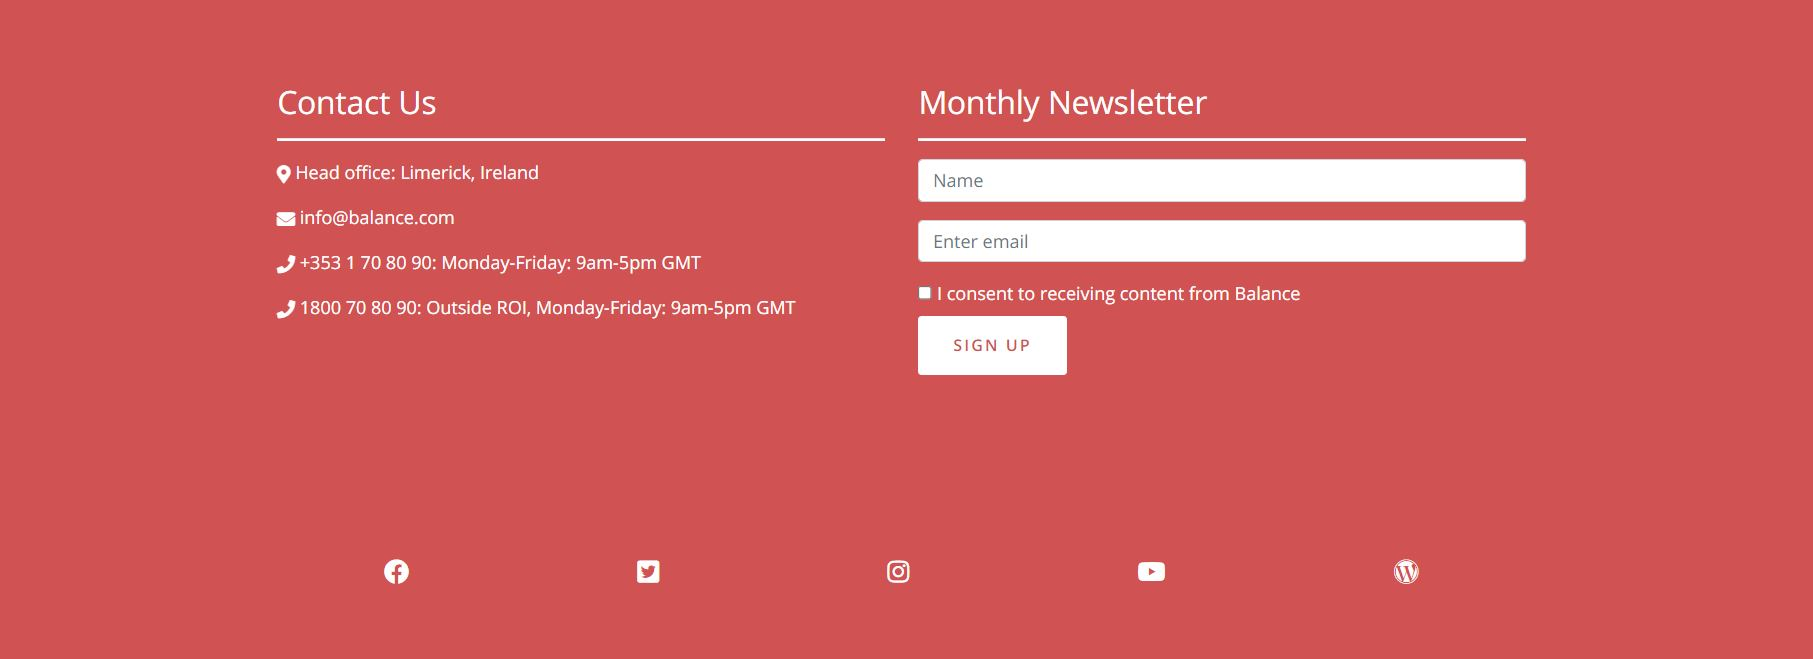
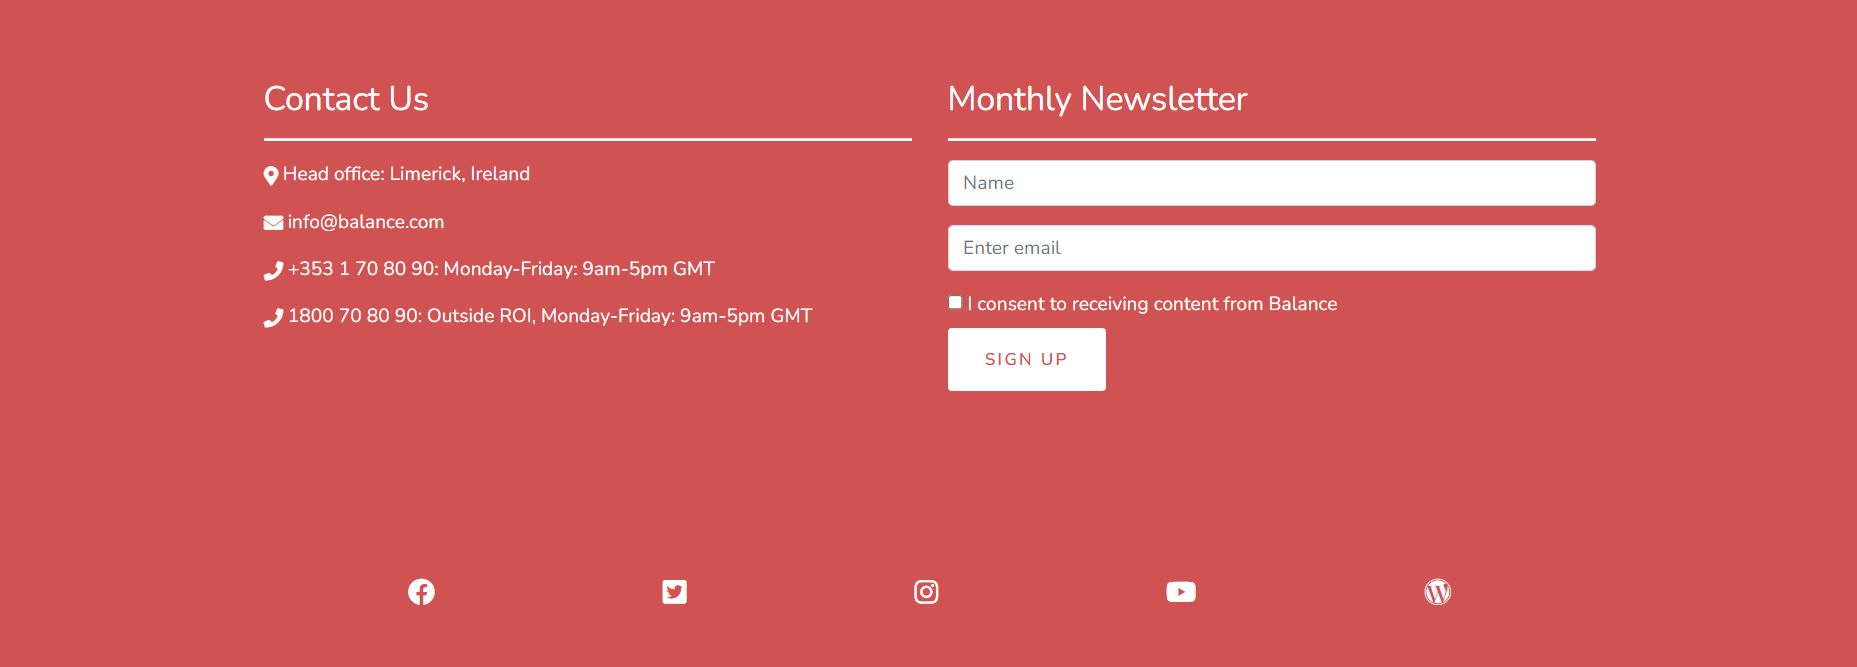
replaced featered imgs with imgs with updated font for README file, added to README.mddeleted commeted out code that was not needed along with other minor edits

diff --git a/log-in.html b/log-in.html
@@ -4,14 +4,13 @@
     <!-- Required meta tags -->
     <meta charset="utf-8">
     <meta name="viewport" content="width=device-width, initial-scale=1, shrink-to-fit=no">
-    <!-- Google fonts-->
-    <link
-        href="https://fonts.googleapis.com/css?family=Open+Sans:300italic,400italic,600italic,700italic,800italic,400,300,600,700,800"
-        rel="stylesheet" type="text/css" />
+    <meta name="description" content="Book Your Online Yoga Classes">
+    <meta name="viewport" content="width=device-width, initial-scale=1.0">
     <!-- Bootstrap -->
     <link rel="stylesheet" href="https://cdn.jsdelivr.net/npm/bootstrap@4.6.0/dist/css/bootstrap.min.css" integrity="sha384-B0vP5xmATw1+K9KRQjQERJvTumQW0nPEzvF6L/Z6nronJ3oUOFUFpCjEUQouq2+l" crossorigin="anonymous">
     <!-- Font Awesome icons (free version)-->
     <link rel="stylesheet" href="https://cdnjs.cloudflare.com/ajax/libs/font-awesome/5.15.3/css/all.min.css">
+    <!-- Hover.css -->
     <link rel="stylesheet" href="https://cdnjs.cloudflare.com/ajax/libs/hover.css/2.1.1/css/hover-min.css" type="text/css" />
     <!-- Style sheet -->
     <link rel="stylesheet" href="assets/css/style.css">
@@ -80,12 +79,12 @@
     <form class="form-group">
       <div>
         <label for="signup-email"><strong>Email address</strong></label>
-        <input type="email" class="form-control" class="text-input" placeholder="example@email.com" aria-label="email-address" required>
+        <input type="email" class="form-control text-input" placeholder="example@email.com" aria-label="email-address" required>
       </div>
 
       <div class="form-group">
         <label for="password"><strong>Password</strong></label>
-        <input type="password" class="form-control" class="input-password" placeholder="************" aria-label="password" required>
+        <input type="password" class="form-control input-password" placeholder="************" aria-label="password" required>
       </div>
       
       <div class="form-group form-check"> 
@@ -103,19 +102,22 @@
     <form>
       <div class="form-group">
         <label for="firstname"><strong>First Name</strong></label>
-        <input type="text" name="firstname" class="form-control" class="text-input" id="firstname" placeholder="Name" aria-label="name" required>
+        <input type="text" name="firstname form-control text-input" id="firstname" placeholder="First name" aria-label="name" required>
       </div>
-
+      <div class="form-group">
+        <label for="lastname"><strong>Last Name</strong></label>
+        <input type="text" name="lastname" class="form-control text-input" id="lastname" placeholder="Last name" aria-label="name" required>
+      </div>
       <div class="form-group">
         <label for="signup-email"><strong>Email address</strong></label>
-        <input type="text"  class="form-control" class="text-input" id="signup-email" placeholder="example@email.com" aria-label="email-address" required>
+        <input type="text"  class="form-control text-input" id="signup-email" placeholder="example@email.com" aria-label="email-address" required>
         <small id="email-sharing" class="form-text text-muted">We'll never share your email with anyone else.</small>
       </div>
 
       <div class="form-group">
       <label for="password"><strong>Password</strong></label>
-      <input type="password" class="form-control" class="text-input" id="password" placeholder="************" aria-label="password" required>
-      <small id="password-criteria"class="form-text text-muted">
+      <input type="password" class="form-control text-input" id="password" placeholder="************" aria-label="password" required>
+      <small id="password-criteria" class="form-text text-muted">
       Your password must be 8-20 characters long, contain letters and numbers, and must not contain spaces, special characters, or emoji.
       </small>
       </div>
@@ -151,13 +153,13 @@
               <input type="text" class="form-control" placeholder="Name" required>
             </fieldset>
             <fieldset class="form-group">
-              <input type="email" class="form-control" placeholder="Enter email" required>
+              <input type="email" class="form-control" placeholder="example@email.com" required>
             </fieldset>
             <input type="checkbox" id="newsletter-permission" name="permission" required>
             <label for="newsletter-permission" class="user-permission">I consent to receiving content from 
               Balance.
             </label>
-            <fieldset class="form-group text-xs-right">
+            <fieldset class="form-group">
               <button type="button" class="btn btn-footer btn-sm"> Sign
                 up
               </button>

diff --git a/index.html b/index.html
@@ -5,20 +5,16 @@
   <meta charset="utf-8">
   <meta name="viewport" content="width=device-width, initial-scale=1, shrink-to-fit=no">
   <meta name="description" content="Book Your Online Yoga Classes">
-  <meta name="Vanessa" content="Vanessa">
   <meta name="viewport" content="width=device-width, initial-scale=1.0">
-  <!-- https://www.w3schools.com/tags/tag_meta.asp -->
 
-  <title>Balance: Virtual Yoga Classes</title>
-  <!-- Google fonts-->
-  <link
-    href="https://fonts.googleapis.com/css?family=Open+Sans:300italic,400italic,600italic,700italic,800italic,400,300,600,700,800"
-    rel="stylesheet" type="text/css" />
+  <title>Balance: Virtual Yoga & Meditation Classes</title>
+
   <!-- Bootstrap -->
   <link rel="stylesheet" href="https://cdn.jsdelivr.net/npm/bootstrap@4.6.0/dist/css/bootstrap.min.css"
     integrity="sha384-B0vP5xmATw1+K9KRQjQERJvTumQW0nPEzvF6L/Z6nronJ3oUOFUFpCjEUQouq2+l" crossorigin="anonymous">
   <!-- Font Awesome icons (free version)-->
   <link rel="stylesheet" href="https://cdnjs.cloudflare.com/ajax/libs/font-awesome/5.15.3/css/all.min.css">
+  <!-- Hover.css -->
   <link rel="stylesheet" href="https://cdnjs.cloudflare.com/ajax/libs/hover.css/2.1.1/css/hover-min.css" type="text/css" />
   <!-- Style sheet -->
   <link rel="stylesheet" href="assets/css/style.css">
@@ -282,8 +278,6 @@
         </div>
         <div class="col-12 col-sm-6 col-md-4 col-lg-4 gallery-col" id="image-3">
          </div>
-         <!-- <div class="col-12 col-sm-6 col-md-4 col-lg-4 gallery-col" id="image-4">
-        </div>  -->
       </div>  
     </div>
   </section>
@@ -309,11 +303,12 @@
               <input type="text" class="form-control" id="name-input" placeholder="Name" required>
             </fieldset>
             <fieldset class="form-group">
-              <input type="email" class="form-control" id="email-input" placeholder="Enter email" required>
+              <input type="email" class="form-control" id="email-input" placeholder="example@email.com" required>
             </fieldset>
             <input type="checkbox" id="newsletter-permission" name="permission" required>
             <label for="newsletter-permission" class="user-permission">I consent to receiving content from Balance</label>
-            <fieldset class="form-group text-xs-right">
+            
+            <fieldset class="form-group">
               <button type="button" class="btn btn-footer btn-sm"> Sign
                 up
               </button>

diff --git a/README.md b/README.md
@@ -1,47 +1,54 @@
-## Table of Contents
-1. Project Goals
-1. User Expierence
-  1. Site owner goals
-  1. User Stories
-  1. First Time Visitor Goals
-  1. A Returning Visitor Goals
-  1. A Member Returning Goals
-1. Design
-  1. Wireframes
-  1. Colors
-  1. Typography
-  1. Imagery
-1. Features
-1. Technologies 
-  1. Languages
-  1. Frameworks & Tools
-1. Testing
-1. Deployment
-1. Credits
-
 ## Miletsone Project 1 | Balance - Virtual Yoga & Meditation Classes
+![Website overview](/docs/features/website-overview.JPG)
 
-Balance is an online Yoga and Meditation class platform. It is just over 12 months old and looking to grow its membership base.
+[Live website can be viewed here](https://vanessacleary.github.io/vanessacleary-Ms1-2021/)
 
-Balance was created as a direct response to the Covid-19 pandemic when all in person classes were cancelled. Balance is now a commercial business looking to expand its membership base and compete in the virtual yoga class market on both price and offering.
+## Table of Contents
+* [Project Goals]()
+* [User Expierence](#User-Expierence)
+    * [Site owner goals](#site-goals)
+    * [User Stories](#User-Stories)
+    * [First Time Visitor Goals](First-Time-Visitor-Goals)
+    * [A Returning Visitor Goals](A-Returning-Visitor-Goals)
+    * [A Member Returning Goals](A-Member-Returning-Goals)
+* [Design](#Design)
+    * [Wireframes]#(Wireframes)
+    * [Colors](#Colors)
+    * [Typography](#Typography)
+    * [Imagery](#Imagery)
+* [Features](#Features)
+    * [Homepage features](#Homepage-Features)
+    * [Login page features](#Login-page-features)
+* [Technologies](#Technologies)
+    * [Languages](#Languages)
+    * [Frameworks & Tools](#Frameworks-&-Tools)
+* [Testing](#Testing)
+* [Deployment](#Deployment)
+* [Credits](#Credits)
+* [Awknowledgments](#Awknowledgments)
 
-## User Expierence - UX
+<p>Balance is an online Yoga and Meditation class platform. It is just over 12 months old and looking to grow its membership base.
+
+Balance was created as a direct response to the Covid-19 pandemic when all in person classes were cancelled. Balance is now a commercial business looking to expand its membership base and compete in the virtual yoga class market on both price and offering.</p>
+
+## User Expierence
 
 ### Site Goals
 **Site Owners Goal:** 
 
 *To build a platfrom that provides online Yoga and Meditation classes*
-* As a site owner, I want to create a virtual space that allows users to create a yoga practice schedule that works for their life.
-* As a site owner, I want to be able to build a virtual community of yogi’s who feel part of a virtual community.
+* As a site owner, I want to create a virtual platform that allows users to create a yoga practice schedule that works for their life.
+* As a site owner, I want to be able to build a virtual community of yogi’s.
+* As a site owner, I want to build memberships by offering a free trail.
 * As a site owner, I want users to be able to sign up and make contact with Balance easily and quickly when they are on the site.
 
 ### User Stories:
 
 **First Time Visitor Goals:**
 * As a First Time Visitor, I want to easily understand the main purpose of the site and learn more about the organisation.
-*  As a First Time Visitor, I want to be able to easily navigate throughout the site to find the information I need easily know how it works and how to sign up.
-* As a First Time Visitor, I want asily know how it works and how to sign up.
-* As a First Time Visitor, I want to look for testimonials to understand what their users think of them and see if they are trusted. I also want to locate their social media links to see their followings on social media to determine how trusted and known they are.
+*  As a First Time Visitor, I want to be able to easily navigate throughout the site to find the information I need easily.
+* As a First Time Visitor, I want easily know how it works and how to sign up.
+* As a First Time Visitor, I want to look for testimonials to understand what their memebers think of them and see if they are trusted. I also want to locate their social media links to see their followings on social media to determine how trusted and known they are.
 *  As a First Time Visitor, I want to easily be able to sign up for a free trial to get an idea of what the membership is like.
 *  As a First Time Visitor, I want to easily see the price for the membership.
 
@@ -53,64 +60,69 @@ Balance was created as a direct response to the Covid-19 pandemic when all in pe
 
 **A Member Returning Goals:**
 *  As a member, I want to visit Balance and easily log-in to attend a class or see the class schedule.
-*  As a member, I want to easily see contact information.
+*  As a member, I want to easily see contact information for Balance.
 
 ## Design:
 
 **Wireframes**
+* I mainly stuck to the wireframe designs, all changes that were made were to improve the website user expierence and aesthetic.
 
-* Desktop home page wireframe can be found ![here](/docs/wireframes/desktop-homepage.png)
+  * Desktop home page wireframe can be found ![here](. ./docs/wireframes/desktop-homepage.png)
 
-* Desktop log-in page wireframe can be found ![here](/docs/wireframes/desktop-login.png)
+  * Desktop log-in page wireframe can be found ![here](. ./docs/wireframes/desktop-login.png)
 
-* Mobile home page wireframe can be found ![here](/docs/wireframes/mobile-homepage.png)
+  * Mobile home page wireframe can be found ![here](. ./docs/wireframes/mobile-homepage.png)
 
-* Mobile log-in page wire frame can be found ![here](/docs/wireframes/mobile-login.png)
+  * Mobile log-in page wire frame can be found ![here](. ./docs/wireframes/mobile-login.png)
 
 **Colors**
 
-* I created a colour scheme of red and white with shades of apricot to for clickable elements on the website. I chose to keep the website crisp and clean with block colors. As the website is a membership service I wantes to ensure key information was not missed and there was little distractions on the website. 
+* I created a colour scheme of Indian red and White with shades of apricot to for clickable elements on the website. I chose to keep the website crisp and clean with block colors. As the website is a membership service I wanted to ensure key information was not missed and there was very little distractions on the website. 
 
 **Typography** 
+* I chose Nunito from Google Fonts. I chose this font because:
+  * The soft and curvy form works well with the brand name, its playful and suits the softer and artistic vibe that Yoga and Meditation has.
+  * It's also a sans-serif font which is more accessible for people with dyslexia. Sans-serif is the back-up font if Nunito fails.
 
 **Imagery** 
-All images on the website are of professional quality and fully licensed. Please see 'Credits' section for more information on licenses.
+* All images on the website are of professional quality and fully licensed. Please see 'Credits' section for more information on licenses.
 
 ## Features
 
-**The website has 2 pages:**
-1. Homepage  
-2. Login/register page
-
-* The homepage has seven sections.
-* The login/register page has three sections.
 * The entire site is responsive for all screen sizes and both pages have the same Navbar and Footer.
 * The website was created using Bootstraps grid system.
+
+**The website has 2 pages:**
+
+1. Homepage (seven sections)
+2. Login/Register page (three sections)
 
 **Features:**
 
 ### Homepage 
-1. A hero image with the price per month and a strong CTA. The 'Free Trial' CTA is essential to capture the attention of visitors who are hesitant to switch to online yoga. 
-2. The ‘About’ section is key for visitors to understand how the company was created and the direction Balance is going in. It also is inviting as it showcases the different styles of yoga available and the lifestyle demographics of memebers. The ‘Testimonial’ CTA is a key feature here to draw the visitors attention to how much current members love Balance.
-3. The ‘How it Works’ section is key for visitors to get a snapshot of how Balance works and what is on offer.
-4. The ‘Meet the Team’ section is an essential feature to draw the visitor's attention to the instructors, its purpose is to let visitors know who will be hosting the classes and that they are real people behind the virtual class. 
-5. The ‘Testimonial’ section is one of the most important features. Reviews and Testimonials are growing more and more important as consumers are more savvy than ever when it comes to spending money and want to know they are receiving a quality product or service. 
-6. The gallery was added for aesthetic purposes and demonstrates the yoga moves that are included in the classes
-7. The footer contains essential ‘Contact’ information and a ‘Newsletter sign up’ in order for Balance to update recipients and further market the brand. 
+1. A **'nav bar'**
+2. A hero image with the price per month and a strong CTA. The 'Free Trial' CTA is essential to capture the attention of visitors who are hesitant to switch to online yoga. 
+2. The **‘About’** section is key for visitors to understand how the company was created and the direction Balance is going in. It also is inviting as it showcases the different styles of yoga available and the lifestyle demographics of memebers. The ‘Testimonial’ CTA is a key feature here to draw the visitors attention to how much current members love Balance.
+3. The **‘How it Works’** section is key for visitors to get a snapshot of how Balance works and what is on offer.
+4. The **‘Meet the Team’** section is an essential feature to draw the visitor's attention to the instructors, its purpose is to let visitors know who will be hosting the classes and that they are real people behind the virtual class. 
+5. The **‘Testimonial’** section is one of the most important features. Reviews and Testimonials are growing more and more important as consumers are more savvy than ever when it comes to spending money and want to know they are receiving a quality product or service. 
+6. The **'gallery'** was added for aesthetic purposes and demonstrates the yoga moves that are included in the classes
+7. The **'footer'** contains essential ‘Contact’ information and a ‘Newsletter sign up’ in order for Balance to update recipients and further market the brand. 
+8. The **'Login and Register'** feature was created to provide users witha clear path on how to sign in to the website to begin their Balance journey. 
 
-**Section 1 - The hero image with jumbotron and CTA:**
+**Section 1: The hero image with jumbotron and CTA:**
 * I chose a less striking image for the hero image as I wanted the Balance concept, price and free trail CTA to be the first thing visitors see. I had tested other images and they took away from the key information. The current image was still distracting however adding a shadowed overlay helped mute out the image and draw more attention to the key information and CTA. 
 
-![Hero section](/docs/features/hero-image.JPG)
+![Hero section](/docs/features/hero-section.JPG)
 
 **Section 2:**
 * The ‘About’ section is an information section, detailing how Balance was formed, the target audience, the different styles of Yoga and Meditation available and direction Balance is going in. The ‘Here what our members have to say’ button is an essential CTA to draw visitors' attention to how much current members love Balance. The copy was created by me.
 
 ![About section](/docs/features/about-section.JPG)
 
-**Section 3 - How it works:**
+**Section 3: How it works:**
 
-* The ‘How it Works Section’ states clearly:
+* The **‘How it Works Section’** states clearly:
   * How to join
   * What is included in a membership
   * Information on classes
@@ -119,36 +131,44 @@ All images on the website are of professional quality and fully licensed. Please
 
 ![How it works section](/docs/features/how-it-works-section.JPG)
 
-**Section 4 - Meet the Team:**
+**Section 4: Meet the Team:**
 * Having the team on the home page is essential for visitors to know who will be guiding their Yoga and Meditation practice. It also states the combined year of teaching experience and information on how to login and where to view the class information. 
+
 ![Meet the team section](/docs/features/team-section.JPG)
 
-**Section 5 - Testimonials**
+**Section 5: Testimonials**
 * This section is to inform visitors of how current members feel about Balance and help consumers make an informed decision. The carousel was one feature I wanted  to incorporate on the website to bring the website to life with some movement. 
+
 ![Testimonial section](/docs/features/testimonials-section.JPG)
 
-**Section 6 - Gallery**
+**Section 6: Gallery**
 * The gallery was planned for in the project inception when the wire frames were created. Its purpose is to make the website visually pleasing and showcase some of the more common poses that are practiced at Balance. In order to reduce the scroll depth on mobile only two images will appear.
+
 ![Gallery section](/docs/features/gallery-section.JPG)
 
-**Section 7 - The footer on both homepage and login and register page**
-* The footer ended up being different to the wireframe. A newsletter sign up form is a better feature than a contact form for an online business. It is easy to sign up and helps Balance build brand awareness and reach consumers in their inbox.The contact information is hyperlinked for good user experience and one-click step to make contact on mobile and email.The social media icons bring visitors to all their channels so users can get further information and see the content and followings on each platform.  
+**Section 7: The footer on both homepage and login and register page**
+* The footer ended up being different to the wireframe. A newsletter sign up form is a better feature than a contact form for an online business. It is easy to sign up and helps Balance build brand awareness and reach consumers in their inbox.The contact information is hyperlinked for good user experience and one-click step to make contact on mobile and email.The social media icons bring visitors to all their channels so users can get further information and see the content and followings on each platform.
+
 ![Footer section](/docs/features/footer-section.JPG)
 
 ### Login and Register page
 
-**Section 1 - Alert box**
-* The alert box informs users how to avail of the free trial, it serves as a further prompt for users to register.
+**Section 1: Alert box**
+* The **'alert box'** informs users how to avail of the free trial, it serves as a further prompt for users to register.
 
-**Section 2 - Login and registration forms**
+![Alert section](/docs/features/alert-section.JPG)
+
+**Section 2: Login and registration forms**
 * I decided to keep this page clear, concise and fuss free. This section has two clear forms and directs users to which form they need. The login form is for existing members and the registration form is for new members to sign up. The fixed-top Navbar directs visitors back to the home page to re-look at any information if they wish.
+
+![Log-in section](/docs/features/log-in-section.JPG)
 
 ## Future Features
 
 **As I progress with my studies I would like add:**
 
-1. Confirmation emails when a user registers to Balance 
-2. Confirmation emails when a user signs up to the Balance newsletter
+1. Confirmation emails when a user registers to Balance. 
+2. Confirmation emails when a user signs up to the Balance newsletter.
 3. A chat bot for instant chat to answer any queries, give additional information or to chat to a team member.
 
 ## Technologies used
@@ -243,6 +263,21 @@ The [W3C Markup Validator](https://validator.w3.org/) and [W3C CSS Validator Ser
 3. Next to the green Gitpod button, click on CODE.
 4. Click on Download Zip.
 5. Once downloaded, you can extract the zip file's contents and save to a desktop and run the website locally.
+
+## Credits
+
+### Images:
+* [Unsplash](https://unsplash.com/)
+  * [Gallery 4](https://images.unsplash.com/photo-1601568870191-8c417f7e0077?ixlib=rb-1.2.1&ixid=MnwxMjA3fDB8MHxwaG90by1wYWdlfHx8fGVufDB8fHx8&auto=format&fit=crop&w=334&q=80)
+  * [Gallery 7](https://images.unsplash.com/photo-1573384666670-4b57c9881606?ixlib=rb-1.2.1&ixid=MnwxMjA3fDB8MHxwaG90by1wYWdlfHx8fGVufDB8fHx8&auto=format&fit=crop&w=358&q=80)
+  * [Gallery 8](https://images.unsplash.com/photo-1593164842264-854604db2260?ixid=MnwxMjA3fDB8MHxwaG90by1wYWdlfHx8fGVufDB8fHx8&ixlib=rb-1.2.1&auto=format&fit=crop&w=333&q=80)
+
+* [Google](https://www.google.com/imghp?hl=en)
+  * [Meditation](http://kyleighroessner.skyword.com/external/sampleimages/190255/image1000w.jpg)
+  * [Person 1](https://yogamedicine.com/wp-content/uploads/Jenni-Headshot-scaled-e1577469670247.jpg)
+  * [Person 2](https://sarahpowersinsightyoga.com/wp-content/uploads/2019/08/SarahPowers-headshot-07.jpeg)
+  * [Person 3](https://sarahpowersinsightyoga.com/wp-content/uploads/2020/12/TyPowers-headshot-1024x841.jpg)
+  * [Person 4](https://www.jasonyoga.com/wp-content/uploads/2021-headshot-1-400x400.png)
 
 ## Acknowledgements
 *  Code Institute for providing endless help and resources to get me this far
